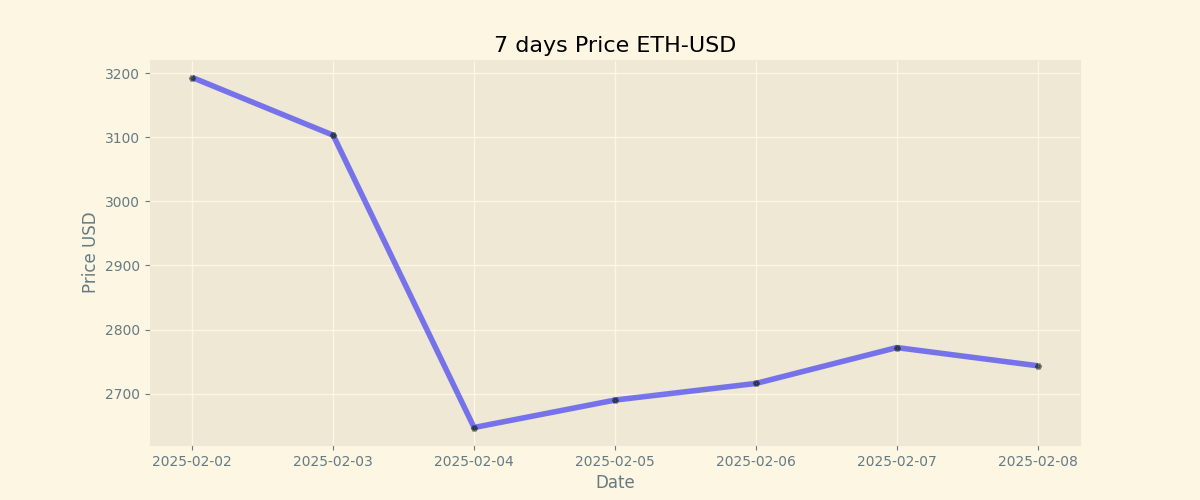
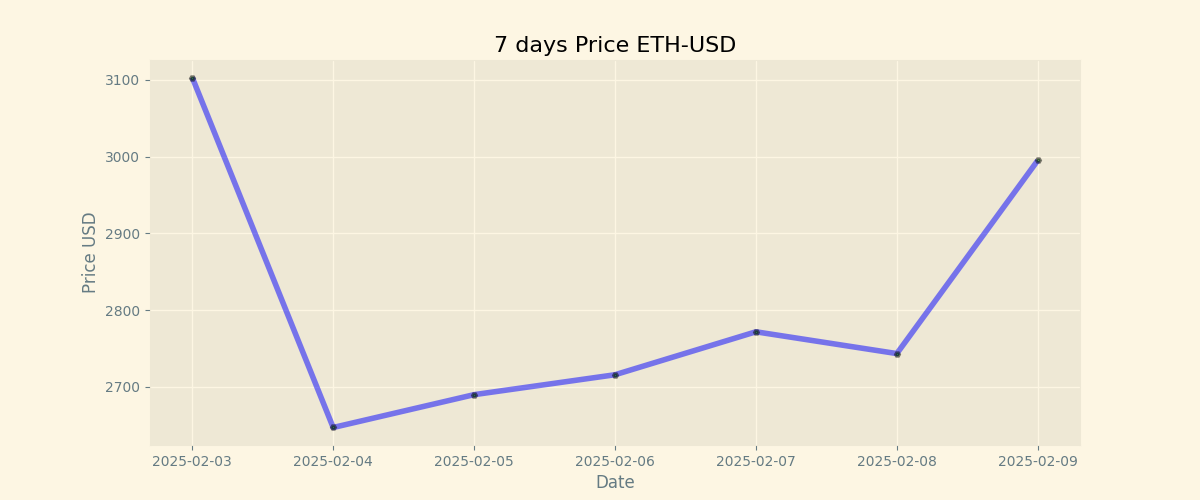
Duty Updates 2025-02-09

diff --git a/README.md b/README.md
@@ -9,8 +9,8 @@
 
 | Currency | Price           |
 | -------- | --------------- |
-| **BTC**  | **$ 98500.0** |
-| **ETH**  | **$ 2743.5** |
+| **BTC**  | **$ 98880.0** |
+| **ETH**  | **$ 2994.99** |
 
 ## BTC chart
 
